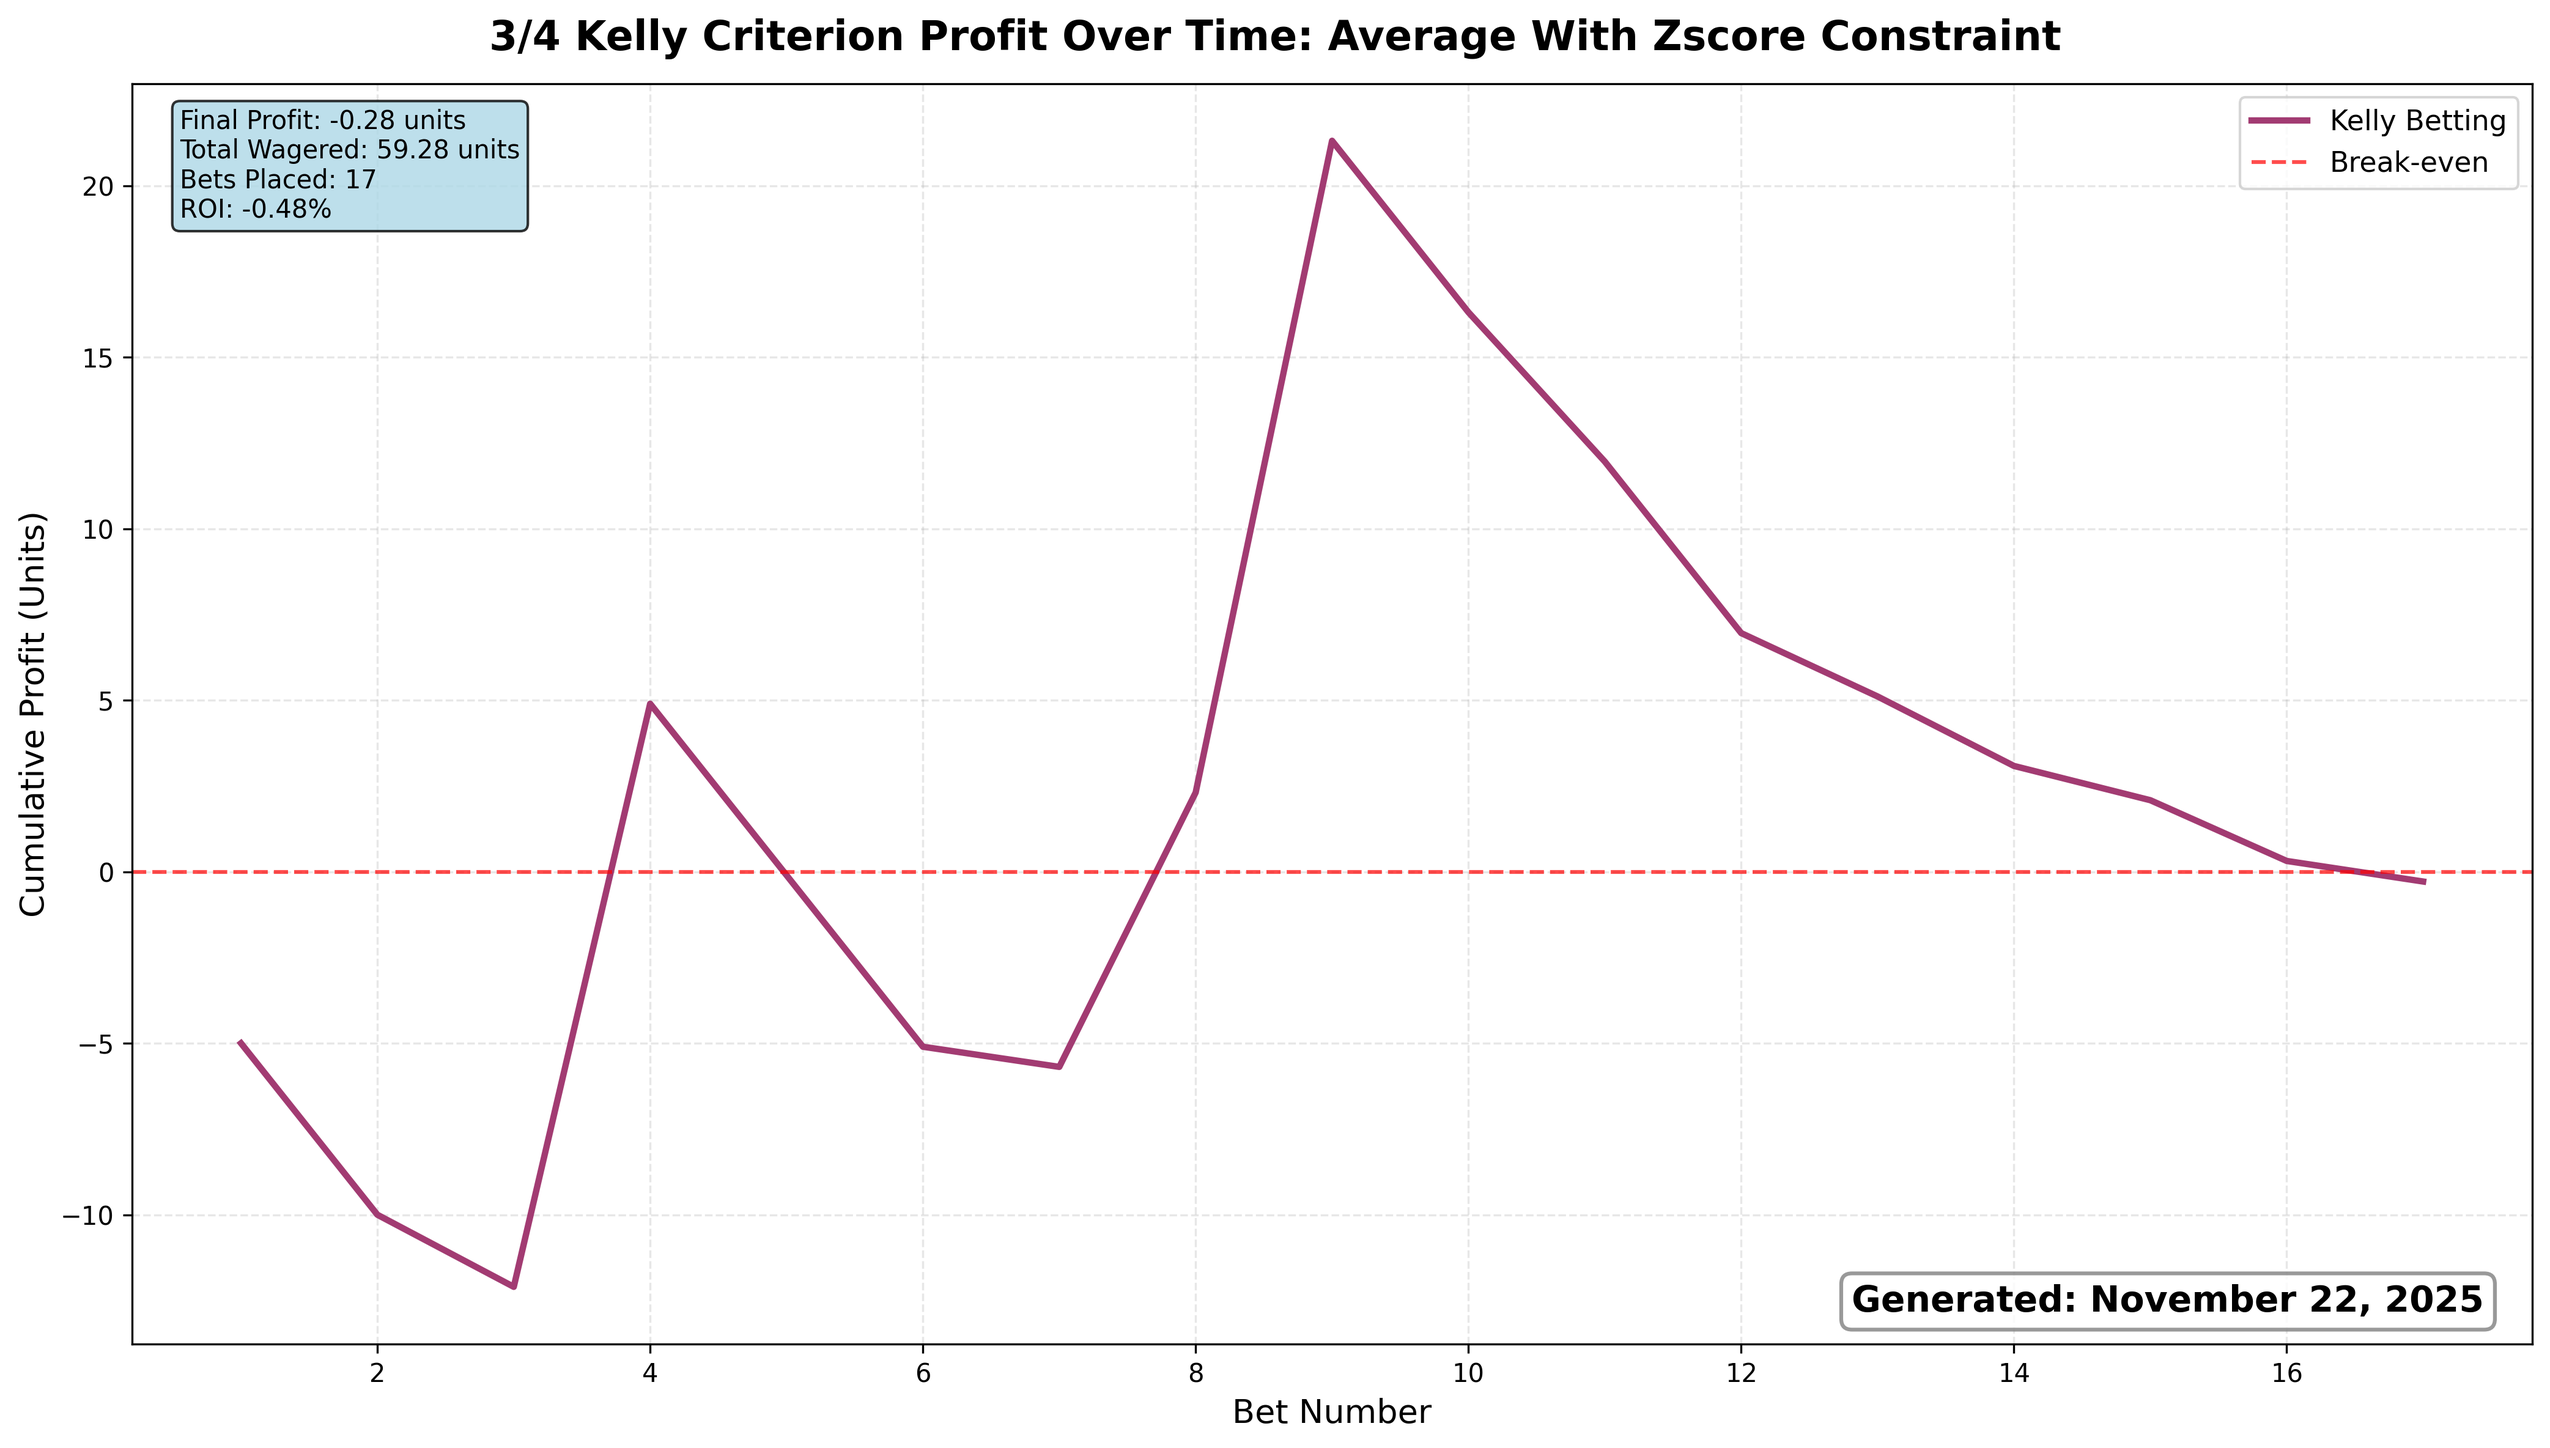
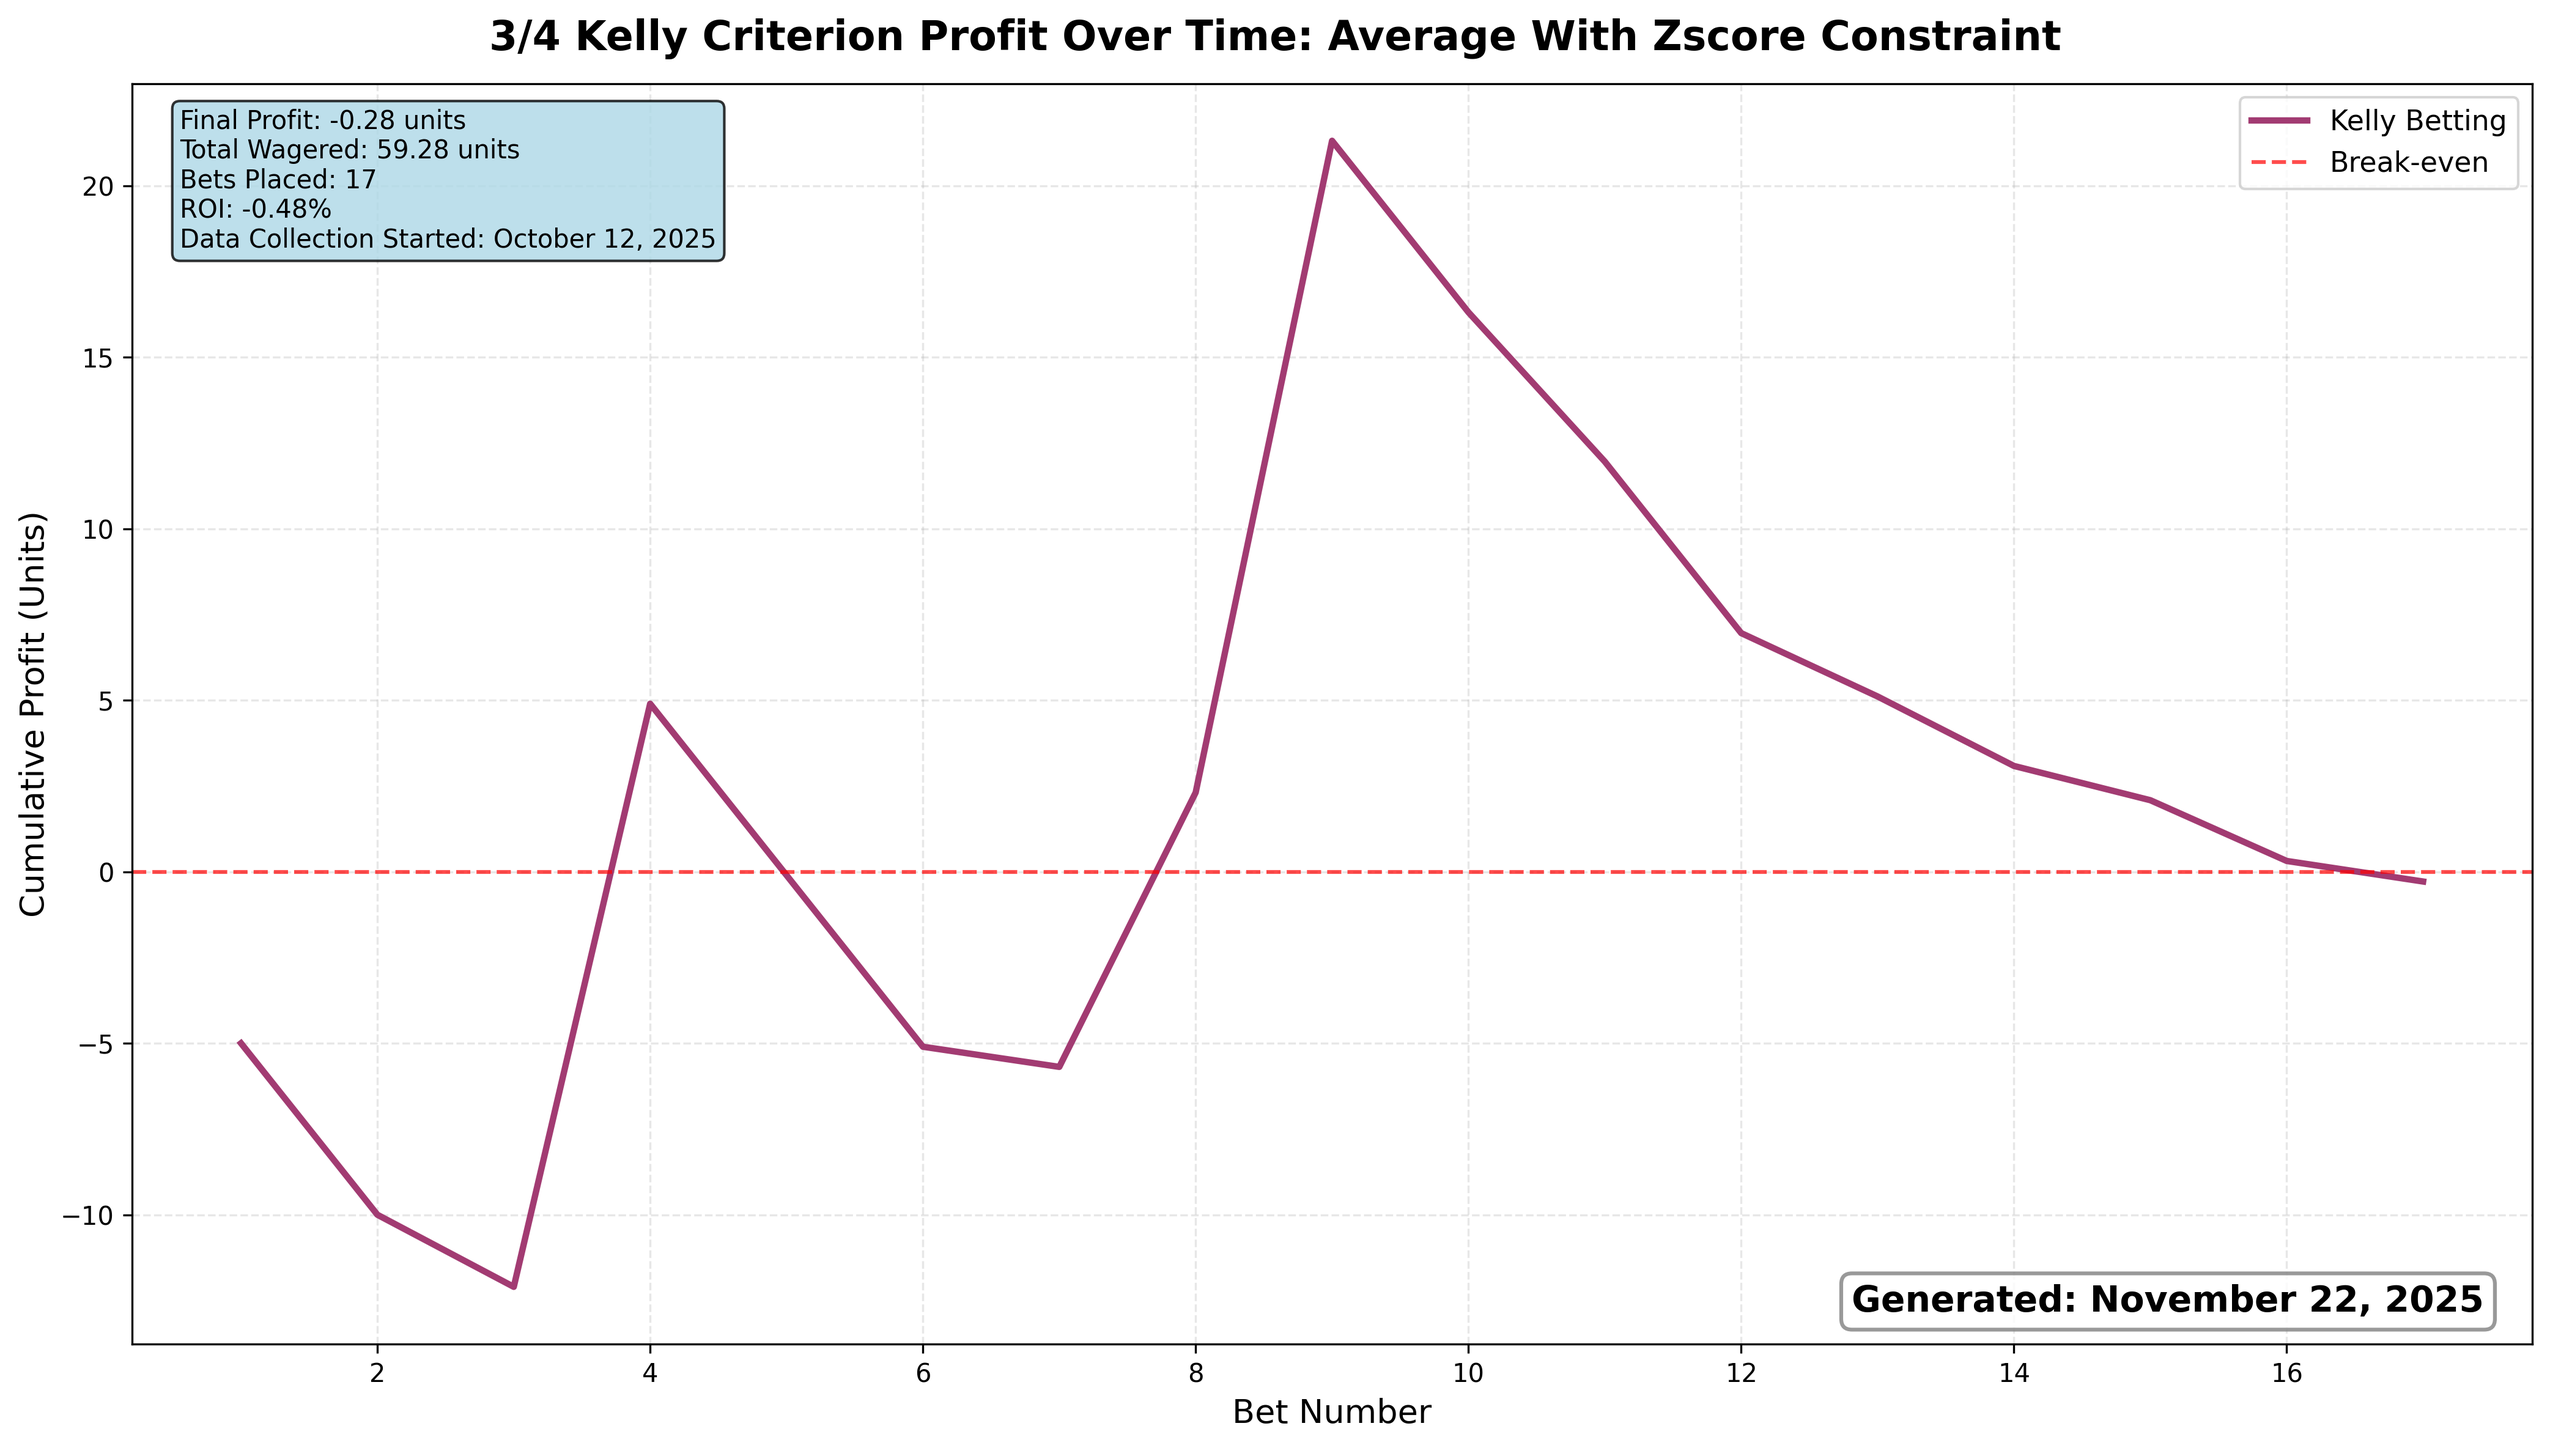
add data collection started info on charts

Changed region(s): [[0.0624, 0.0625, 0.3118, 0.1875]]

diff --git a/codebase/analysis/profit_over_time.py b/codebase/analysis/profit_over_time.py
@@ -202,6 +202,10 @@ def plot_profit_over_time(strategy, save_fig=False):
     # Get current date
     current_date = datetime.now().strftime('%B %d, %Y')
     
+    # Get first bet date (data collection start date)
+    df['Start Time'] = pd.to_datetime(df['Start Time'])
+    first_bet_date = df['Start Time'].min().strftime('%B %d, %Y')
+    
     fig, ax = plt.subplots(1, 1, figsize=(14, 8))
     
     # Check if this is the Random strategy (no EV column)
@@ -228,7 +232,8 @@ def plot_profit_over_time(strategy, save_fig=False):
         ax.text(0.02, 0.98, 
                 f'Final Profit: {final_profit_flat:.2f} units\n'
                 f'Total Bets: {total_bets_flat}\n'
-                f'ROI: {roi_flat:.2f}%',
+                f'ROI: {roi_flat:.2f}%\n'
+                f'Data Collection Started: {first_bet_date}',
                 transform=ax.transAxes,
                 verticalalignment='top',
                 bbox=dict(boxstyle='round', facecolor='wheat', alpha=0.8),
@@ -265,7 +270,8 @@ def plot_profit_over_time(strategy, save_fig=False):
                     f'Final Profit: {final_profit_kelly:.2f} units\n'
                     f'Total Wagered: {total_wagered_kelly:.2f} units\n'
                     f'Bets Placed: {total_bets_kelly}\n'
-                    f'ROI: {roi_kelly:.2f}%',
+                    f'ROI: {roi_kelly:.2f}%\n'
+                    f'Data Collection Started: {first_bet_date}',
                     transform=ax.transAxes,
                     verticalalignment='top',
                     bbox=dict(boxstyle='round', facecolor='lightblue', alpha=0.8),
@@ -310,6 +316,18 @@ def plot_comparison_all_strategies(save_fig=False):
     
     # Get current date
     current_date = datetime.now().strftime('%B %d, %Y')
+    
+    # Get earliest start date across all strategies
+    earliest_date = None
+    for strategy in STRATEGIES:
+        df = pd.read_csv(strategy.path)
+        df['Start Time'] = pd.to_datetime(df['Start Time'])
+        strategy_start = df['Start Time'].min()
+        if earliest_date is None or strategy_start < earliest_date:
+            earliest_date = strategy_start
+    
+    first_bet_date = earliest_date.strftime('%B %d, %Y')
+    
     fig.suptitle(f'3/4 Kelly Criterion Profit Over Time - All Strategies', 
                  fontsize=16, fontweight='bold')
     
@@ -335,7 +353,19 @@ def plot_comparison_all_strategies(save_fig=False):
     ax.set_xlabel('Bet Number', fontsize=13)
     ax.set_ylabel('Cumulative Profit (Units)', fontsize=13)
     ax.grid(True, alpha=0.3, linestyle='--')
-    ax.legend(fontsize=11, loc='best')
+    
+    # Move legend to upper left to avoid overlapping with date boxes
+    ax.legend(fontsize=11, loc='upper left')
+    
+    # Add data collection start date in bottom left corner
+    ax.text(0.02, 0.02, 
+            f'Data Collection Started: {first_bet_date}',
+            transform=ax.transAxes,
+            verticalalignment='bottom',
+            horizontalalignment='left',
+            bbox=dict(boxstyle='round', facecolor='lightyellow', alpha=0.8, edgecolor='gray', linewidth=1.5),
+            fontsize=12,
+            fontweight='bold')
     
     # Add date stamp in bottom right corner (LARGER)
     ax.text(0.98, 0.02, 
